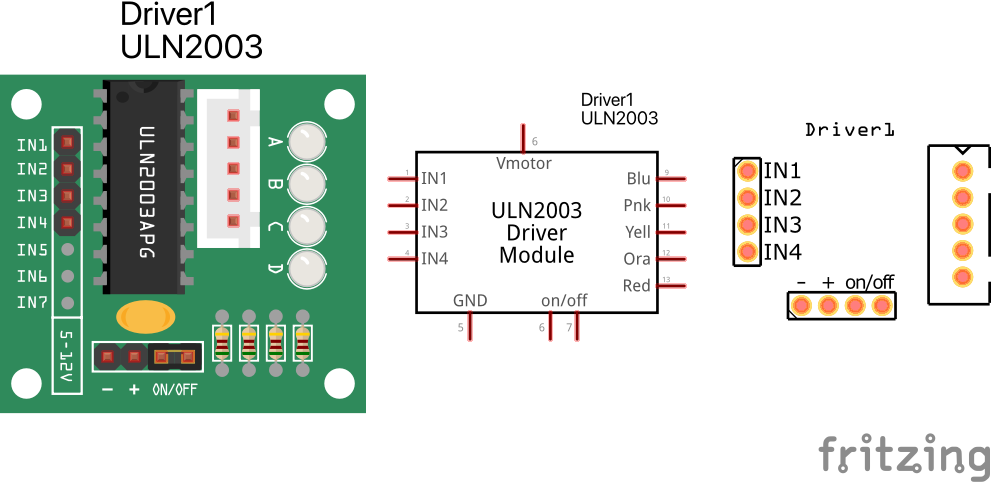
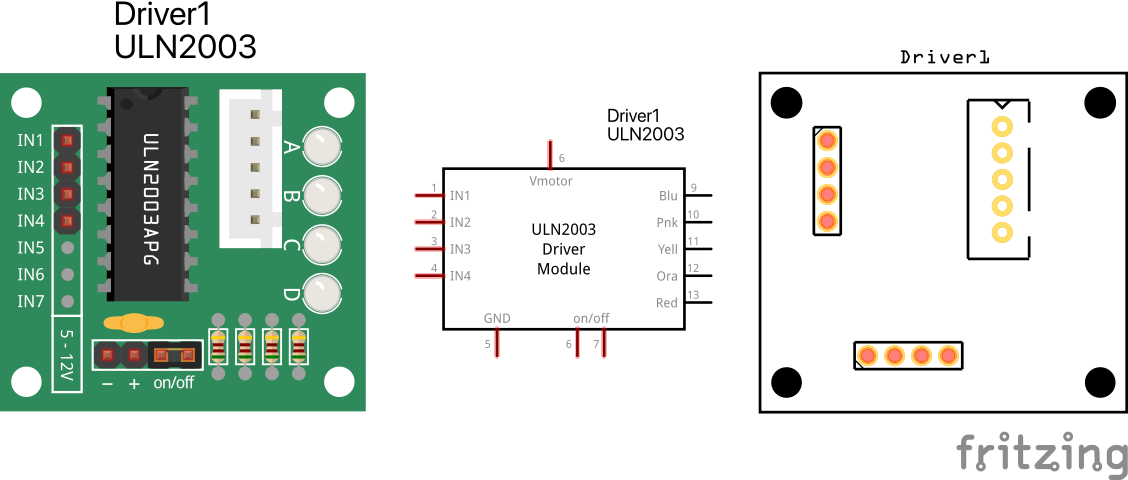
Updated part with new schematic symbol and pcb foot print. Also some minor fixes.

Changed region(s): [[0.0, 0.0, 1.0, 0.875], [0.8174, 0.9062, 1.0, 1.0]]

diff --git a/28BYJ-48-driver/README.md b/28BYJ-48-driver/README.md
@@ -1,9 +1,15 @@
 # 28BYJ-48 Driver Module ULN2003
-A fritzing part for the 28BYJ-48 Driver Module ULN2003 with its JST connector and all the control and power pins. Includes also schematic symbol and pcb footprint.
+A fritzing part for the 28BYJ-48 Driver Module ULN2003 with its JST connector and all the control and power pins. Includes also the schematic symbol and the pcb footprint.
 
 ![28BYJ-48-driver](28BYJ-48-driver.png)
 
 Have a look at the [28BYJ-48 Stepper Motor part](../28BYJ-48-motor/) also.
+
+## NOTES
+
+* The JST connector pins are incorrectly marked as **female** on purpose, as a trick to *help* Fritzing connect the 28BYJ-48 Unipolar Stepper Motor to it more *naturally* (the same trick is applied to the motor itself).
+
+* Used some of [the fritzing tools by @Vanepp](https://github.com/vanepp): go check them.
 
 ## LICENSE
 
